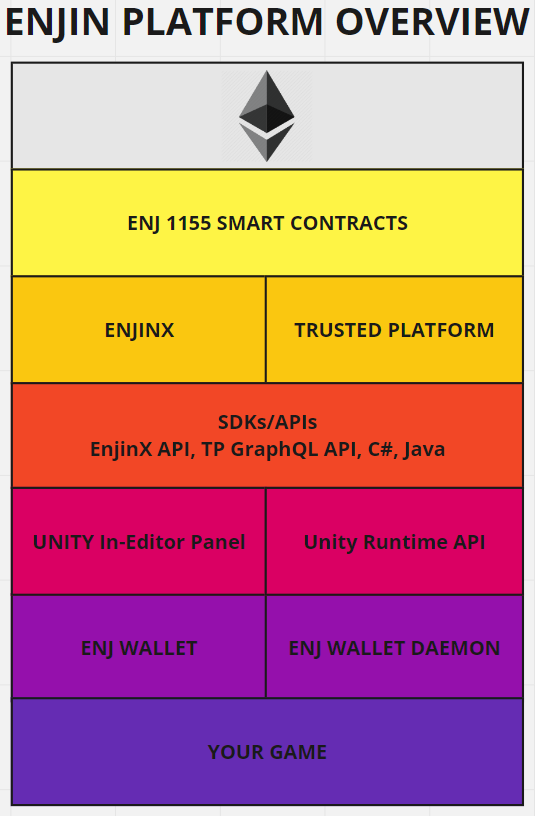
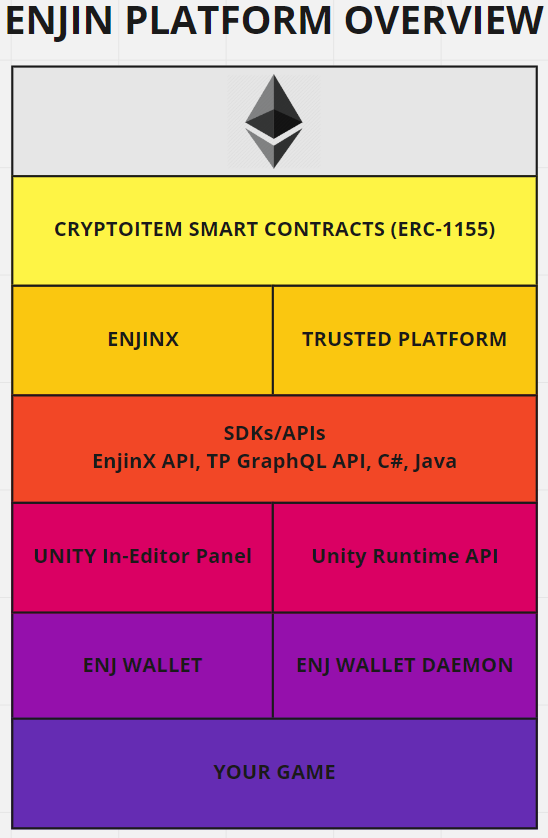
Use CryptoItems branding in start here.

diff --git a/docs/starthere.md b/docs/starthere.md
@@ -50,8 +50,9 @@ Look at this picture:
 ### Ethereum
 Starting from the top (or maybe the bottom?) is the open-source, public, blockchain based distributed computing platform called [Ethereum](https://en.wikipedia.org/wiki/Ethereum). This is where the magic happens; Vitalik's spaceship. This is the future people: the new internet, it's just not widely distributed yet as old Bill Gibson says. You only really need to know some basic concepts about Ethereum to make your way around the ENJ platform, and you can learn those as you go. Let's move on.
 
-### ERC1155 Smart Contracts
-Smart Contracts are programs that run on the Ethereum "operating system". They are much like regular programs, and act as the low level building blocks that platforms like ENJ use to build their functionality. Enjin has championed a standard called [ERC-1155](https://github.com/ethereum/eips/issues/1155), proposed by Witek Radomski and the blockchain team here at Enjin. ENJ uses an implementation of ERC-1155 as the basis for the platform's functionality. You don't need to know anything about smart contracts or how to program them to use ENJ, we do all the heavy lifting here for you.
+### CryptoItem Smart Contracts
+Smart Contracts are programs that run on the Ethereum "operating system". They are much like regular programs, and act as the low level building blocks that platforms like ENJ use to build their functionality. Enjin has championed a standard called [ERC-1155](https://github.com/ethereum/eips/issues/1155), proposed by Witek Radomski and the blockchain team here at Enjin. ENJ uses an implementation of ERC-1155 as the basis for the platform's functionality, called the
+CryptoItem smart contracts. You don't need to know anything about smart contracts or how to program them to use ENJ, we do all the heavy lifting here for you.
 
 ### Trusted Platform
 The Trusted Platform is the main backend service of ENJ that connects your game to the Ethereum network. The TP acts as a hub, gathering requests from clients and game servers, interacting with the smart contracts on Ethereum, and returning data back to your game.
@@ -79,18 +80,16 @@ Which brings up to the bottom of the stack, where the rubber meets the road, you
   Still here? Great! We'd love to have you! You can get up and running on our platform in therefore
   easy steps.
 
-  1. Sign up and subscribe [HERE](https://portal.tp-enj.in/). This will give you access the Trusted Platform (and Platform API).
+  1. Sign up and subscribe [HERE](./trusted_platform.md). This will give you access the Trusted Platform (and Platform API). TODO: Change link when portal is up.
 
   2. You'll then need to create at least one wallet. You have multiple options here: if you are just starting out with the platform and if you think you will be doing a low number of operations and want to get a feel for how things work manually, grab the mobile wallet off the [iOS app store](https://itunes.apple.com/us/app/enjin-cryptocurrency-wallet/id1349078375?mt=8) or the [Google play store](https://play.google.com/store/apps/details?id=com.enjin.mobile.wallet&hl=en_US).
   The mobile wallet is also handy for watching server side wallets that you want to keep an eye on.
-
   If you are doing a high number of transactions, or need to automate transaction signing for game severs interacting with players, you should use our wallet daemon. Check out our [wallet daemon guide](./wallet_daemon_guide.md) for how to get started with that.
-
-  Wallets need ETH to pay for transactions, and ENJ as the digital casting material to create your items. If you want to experiment our Kovan testnet sandbox before using real currencies you can get some KENJ and KETH from our faucet [HERE](https://faucet.enjin.io/) and be off to the races.
+  Wallets need ETH to pay for transactions, and ENJ as the digital casting material to create your items. If you want to experiment our Kovan testnet sandbox before using real currencies you can get some KENJ and KETH from our faucet [here](https://faucet.enjin.io/) and be off to the races.
   If you want to use real deal, mainnet, you will need actual ETH and ENJ via an exchange.
 
   3. Finally, you need to decide how you are going to interact with the ENJ platform. You'll probably use all of these platform interfaces at one time or another.
     * If you are a Unity developer, you can use the Unity SDK, which is free on the Unity
-    asset store. Guide is [here]().
+    asset store. Guide is [here](./unity.md).
     * You can work with the Platform API via browser based GraphiQL console. Guide is [here]().
-    * You can use node to work with the Platform API directly, a guide is [here]().
+    * You can use node to work with the Platform API directly, a guide is [here](./trusted_platform.md).
